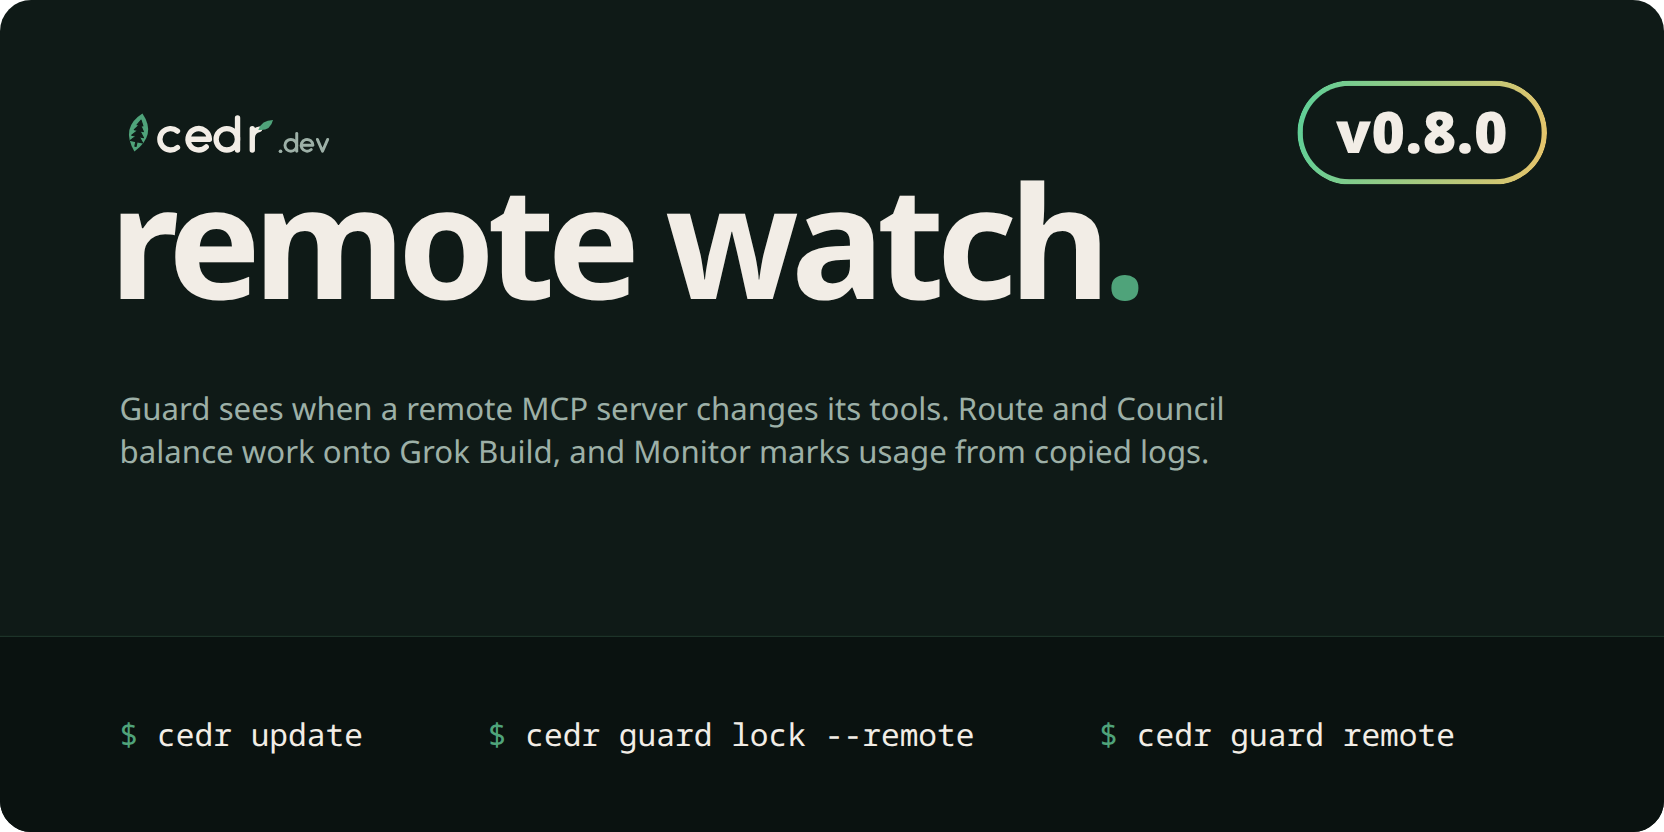
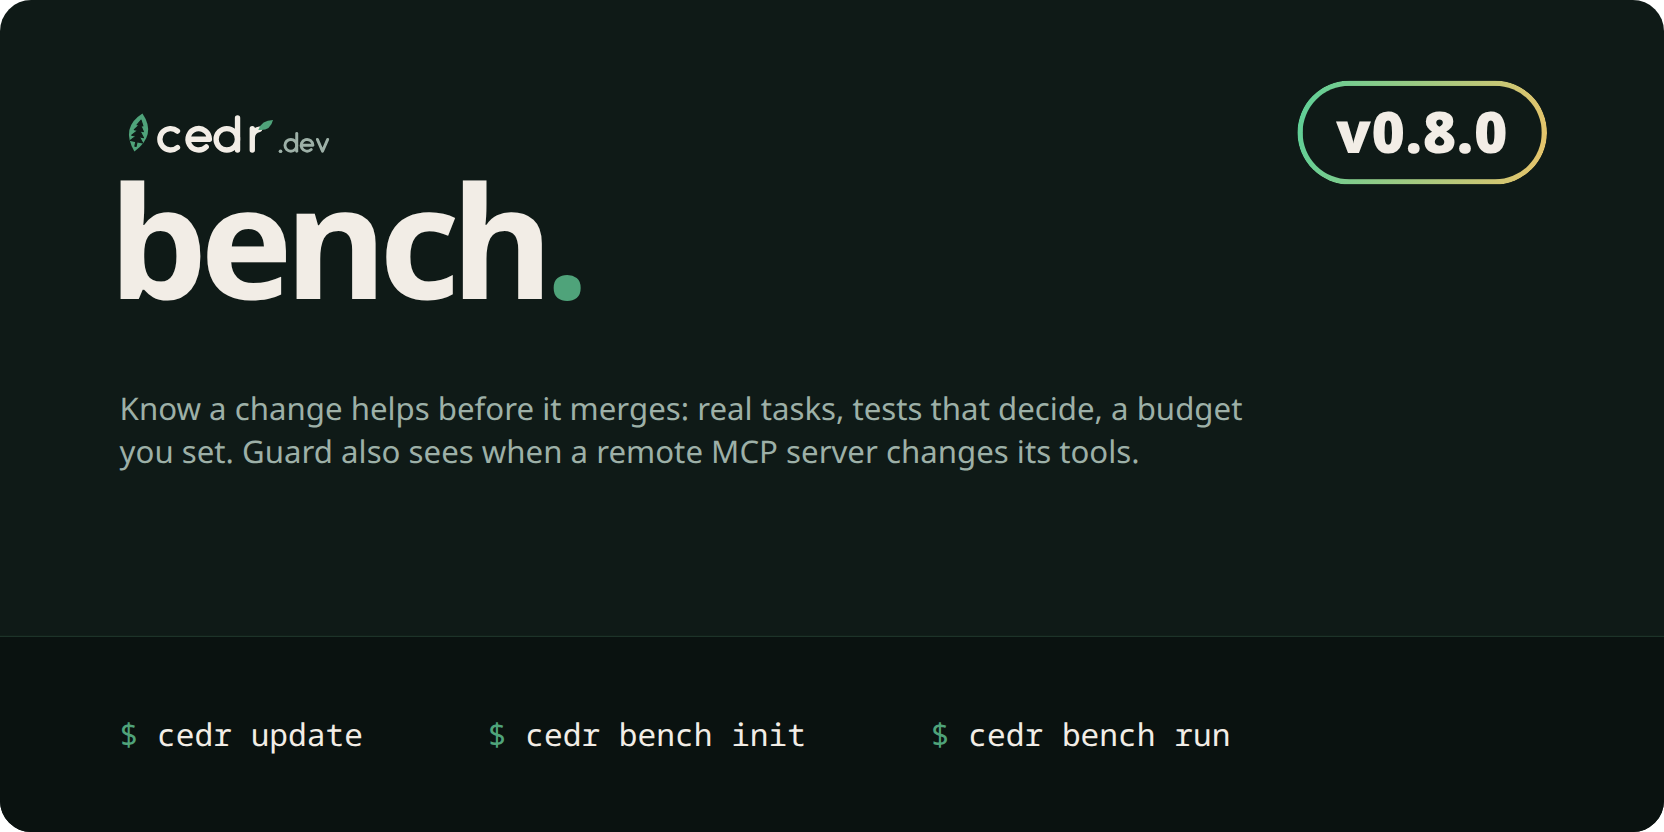
docs: lead the 0.8.0 changelog and hero with bench

Changed region(s): [[0.0625, 0.2188, 0.6875, 0.375], [0.0625, 0.4688, 0.75, 0.5625], [0.375, 0.875, 0.875, 0.9062]]

diff --git a/banner/releases/v0.8.0.html b/banner/releases/v0.8.0.html
@@ -19,7 +19,7 @@ html,body{margin:0;background:transparent;font-family:"Noto Sans",system-ui,sans
 h1{margin:0;font-weight:750;letter-spacing:-.02em}
 </style></head><body><div class="bn">
 <div style="position:absolute;left:90px;top:62px;right:90px;display:flex;justify-content:space-between;align-items:center"><svg viewBox="0 -1 320 66" height="34" role="img" aria-label="cedr.dev"><defs><mask id="lb" maskUnits="userSpaceOnUse" x="0" y="0" width="64" height="64"><rect width="64" height="64" fill="#fff"/><g fill="#000" stroke="#000" stroke-width="1.6" stroke-linejoin="round"><path d="M32 13L36.5 21H27.5Z"/><path d="M32 19L39 29H25Z"/><path d="M32 27L41 38H23Z"/><path d="M32 35L41.5 46H22.5Z"/><path d="M31 45H33V53H31Z"/></g></mask></defs><g transform="rotate(12 32 32)"><path d="M32 3Q60 30 32 61Q4 30 32 3Z" fill="#4FA37A" mask="url(#lb)"/></g><g transform="translate(60 2)"><g fill="none" stroke="#F2EDE6" stroke-width="8" stroke-linecap="round" stroke-linejoin="round"><path d="M30.28 27.74A16 16 0 1 0 30.28 52.26"/><path d="M46 40H78A16 16 0 1 0 73.31 51.31"/><circle cx="104" cy="40" r="16"/><path d="M120 8V56"/><path d="M142 56V24M142 38C142 30 147 26 153 25"/><path d="M151 26Q156 11 173 11Q169 28 151 26Z" fill="#4FA37A" stroke="none"/><g transform="translate(182 27) scale(.55)" stroke="#9DB0A7" stroke-width="8"><circle cx="4" cy="56" r="5" fill="#9DB0A7" stroke="none"/><circle cx="32" cy="40" r="16"/><path d="M48 8V56"/><path d="M60 40H92A16 16 0 1 0 87.31 51.31"/><path d="M104 24L118 56L132 24"/></g></g></g></svg><span class="ver">v0.8.0</span></div>
-<h1 style="position:absolute;left:84px;top:128px;font-size:120px;line-height:.95;letter-spacing:-.05em">remote watch<span class="g">.</span></h1>
-<p class="muted" style="position:absolute;left:92px;top:298px;font-size:24px;margin:0;width:900px">Guard sees when a remote MCP server changes its tools. Route and Council balance work onto Grok Build, and Monitor marks usage from copied logs.</p>
+<h1 style="position:absolute;left:84px;top:128px;font-size:120px;line-height:.95;letter-spacing:-.05em">bench<span class="g">.</span></h1>
+<p class="muted" style="position:absolute;left:92px;top:298px;font-size:24px;margin:0;width:900px">Know a change helps before it merges: real tasks, tests that decide, a budget you set. Guard also sees when a remote MCP server changes its tools.</p>
 <div class="mono" style="position:absolute;left:0;right:0;bottom:0;height:150px;background:#0a1210;border-top:1px solid #1d3329;display:flex;align-items:center;justify-content:flex-start;gap:96px;padding:0 92px;font-size:24px;white-space:nowrap">
-  <span><span class="p">$</span> cedr update</span><span><span class="p">$</span> cedr guard lock --remote</span><span><span class="p">$</span> cedr guard remote</span></div></div></body></html>
+  <span><span class="p">$</span> cedr update</span><span><span class="p">$</span> cedr bench init</span><span><span class="p">$</span> cedr bench run</span></div></div></body></html>

diff --git a/CHANGELOG.md b/CHANGELOG.md
@@ -4,14 +4,17 @@ Every release of the `cedr` CLI, newest first. The GitHub release notes for a ve
 
 ## v0.8.0 (2026-11-01)
 
-<img src="https://raw.githubusercontent.com/Sheernox/cedr/main/assets/releases/v0.8.0.png" alt="cedr v0.8.0: remote watch" width="770">
+<img src="https://raw.githubusercontent.com/Sheernox/cedr/main/assets/releases/v0.8.0.png" alt="cedr v0.8.0: bench" width="770">
 
 **v0.8.0** · 15 changes from 1 contributor
 
 ### Highlights
+**Bench is here.** It tells you whether a change to your rules, a skill or a model helps before you merge it: real tasks against a baseline and a candidate, your tests deciding each trial, and a budget on every run that defaults to $2.00. Start with `cedr bench init`.
+
 Guard can now watch remote MCP servers. A remote server has no version, so a pin could never notice its tools changing; `cedr guard remote` compares what a server lists now with what you locked. Route and Council can also read Grok Build's plan usage and balance work onto it. **Upgrade step:** none; cedr updates itself. A lock made with `--remote` needs this version or later to diff its surfaces.
 
 ### Features
+- **Bench** adds `cedr bench init`, `plan`, `run`, `history`, `show` and `budget`. It runs the unmodified `claude` and `codex` CLIs, and any other agent through a `command` harness, each trial in a fresh clone. Results record the models, CLI versions, commits and a digest of the agent files, and report pass rates with 95% intervals rather than a verdict. Set the cap with `--budget-usd`, `cedr bench budget` or the app's Settings page. Doctor checks it, MCP gains `bench_plan`, `bench_history` and `bench_show`, and the GitHub Action gains `bench`, `bench-budget-usd` and `bench-fail-on`. A suite is code, so run ones you trust. Contract: [docs/bench.md](https://github.com/Sheernox/cedr/blob/v0.8.0/docs/bench.md).
 - **Guard** adds `cedr guard lock --remote` and `cedr guard remote`, which report added and removed tools, schema and description changes, new hosts and expanded capabilities. They send no credentials and contact only public HTTPS addresses. A server that is down or needs a login reports as that, never as unchanged. `[remote] interval_minutes` limits how often a scheduled run really reads a server. Contract: [docs/design.md](https://github.com/Sheernox/cedr/blob/v0.8.0/docs/design.md).
 - **Route** has a built-in `grok` reader for Grok Build's weekly allowance, which Council's picks use too. `cedr monitor limits` shows the reading, `cedr doctor` checks Grok Build's MCP registration, and `cedr route import` sets its effort option. The plan's pool is shared with the vendor's other products, so the percent can rise with no Grok Build turn. Contract: [docs/route.md](https://github.com/Sheernox/cedr/blob/v0.8.0/docs/route.md).
 - **Monitor** adds `responseSet` to each row it pushes, a digest of the responses behind the row. It lets the same usage from a copied log be told apart from distinct usage, and the responses' identities never leave the machine. Contract: [docs/monitor.md](https://github.com/Sheernox/cedr/blob/v0.8.0/docs/monitor.md).
